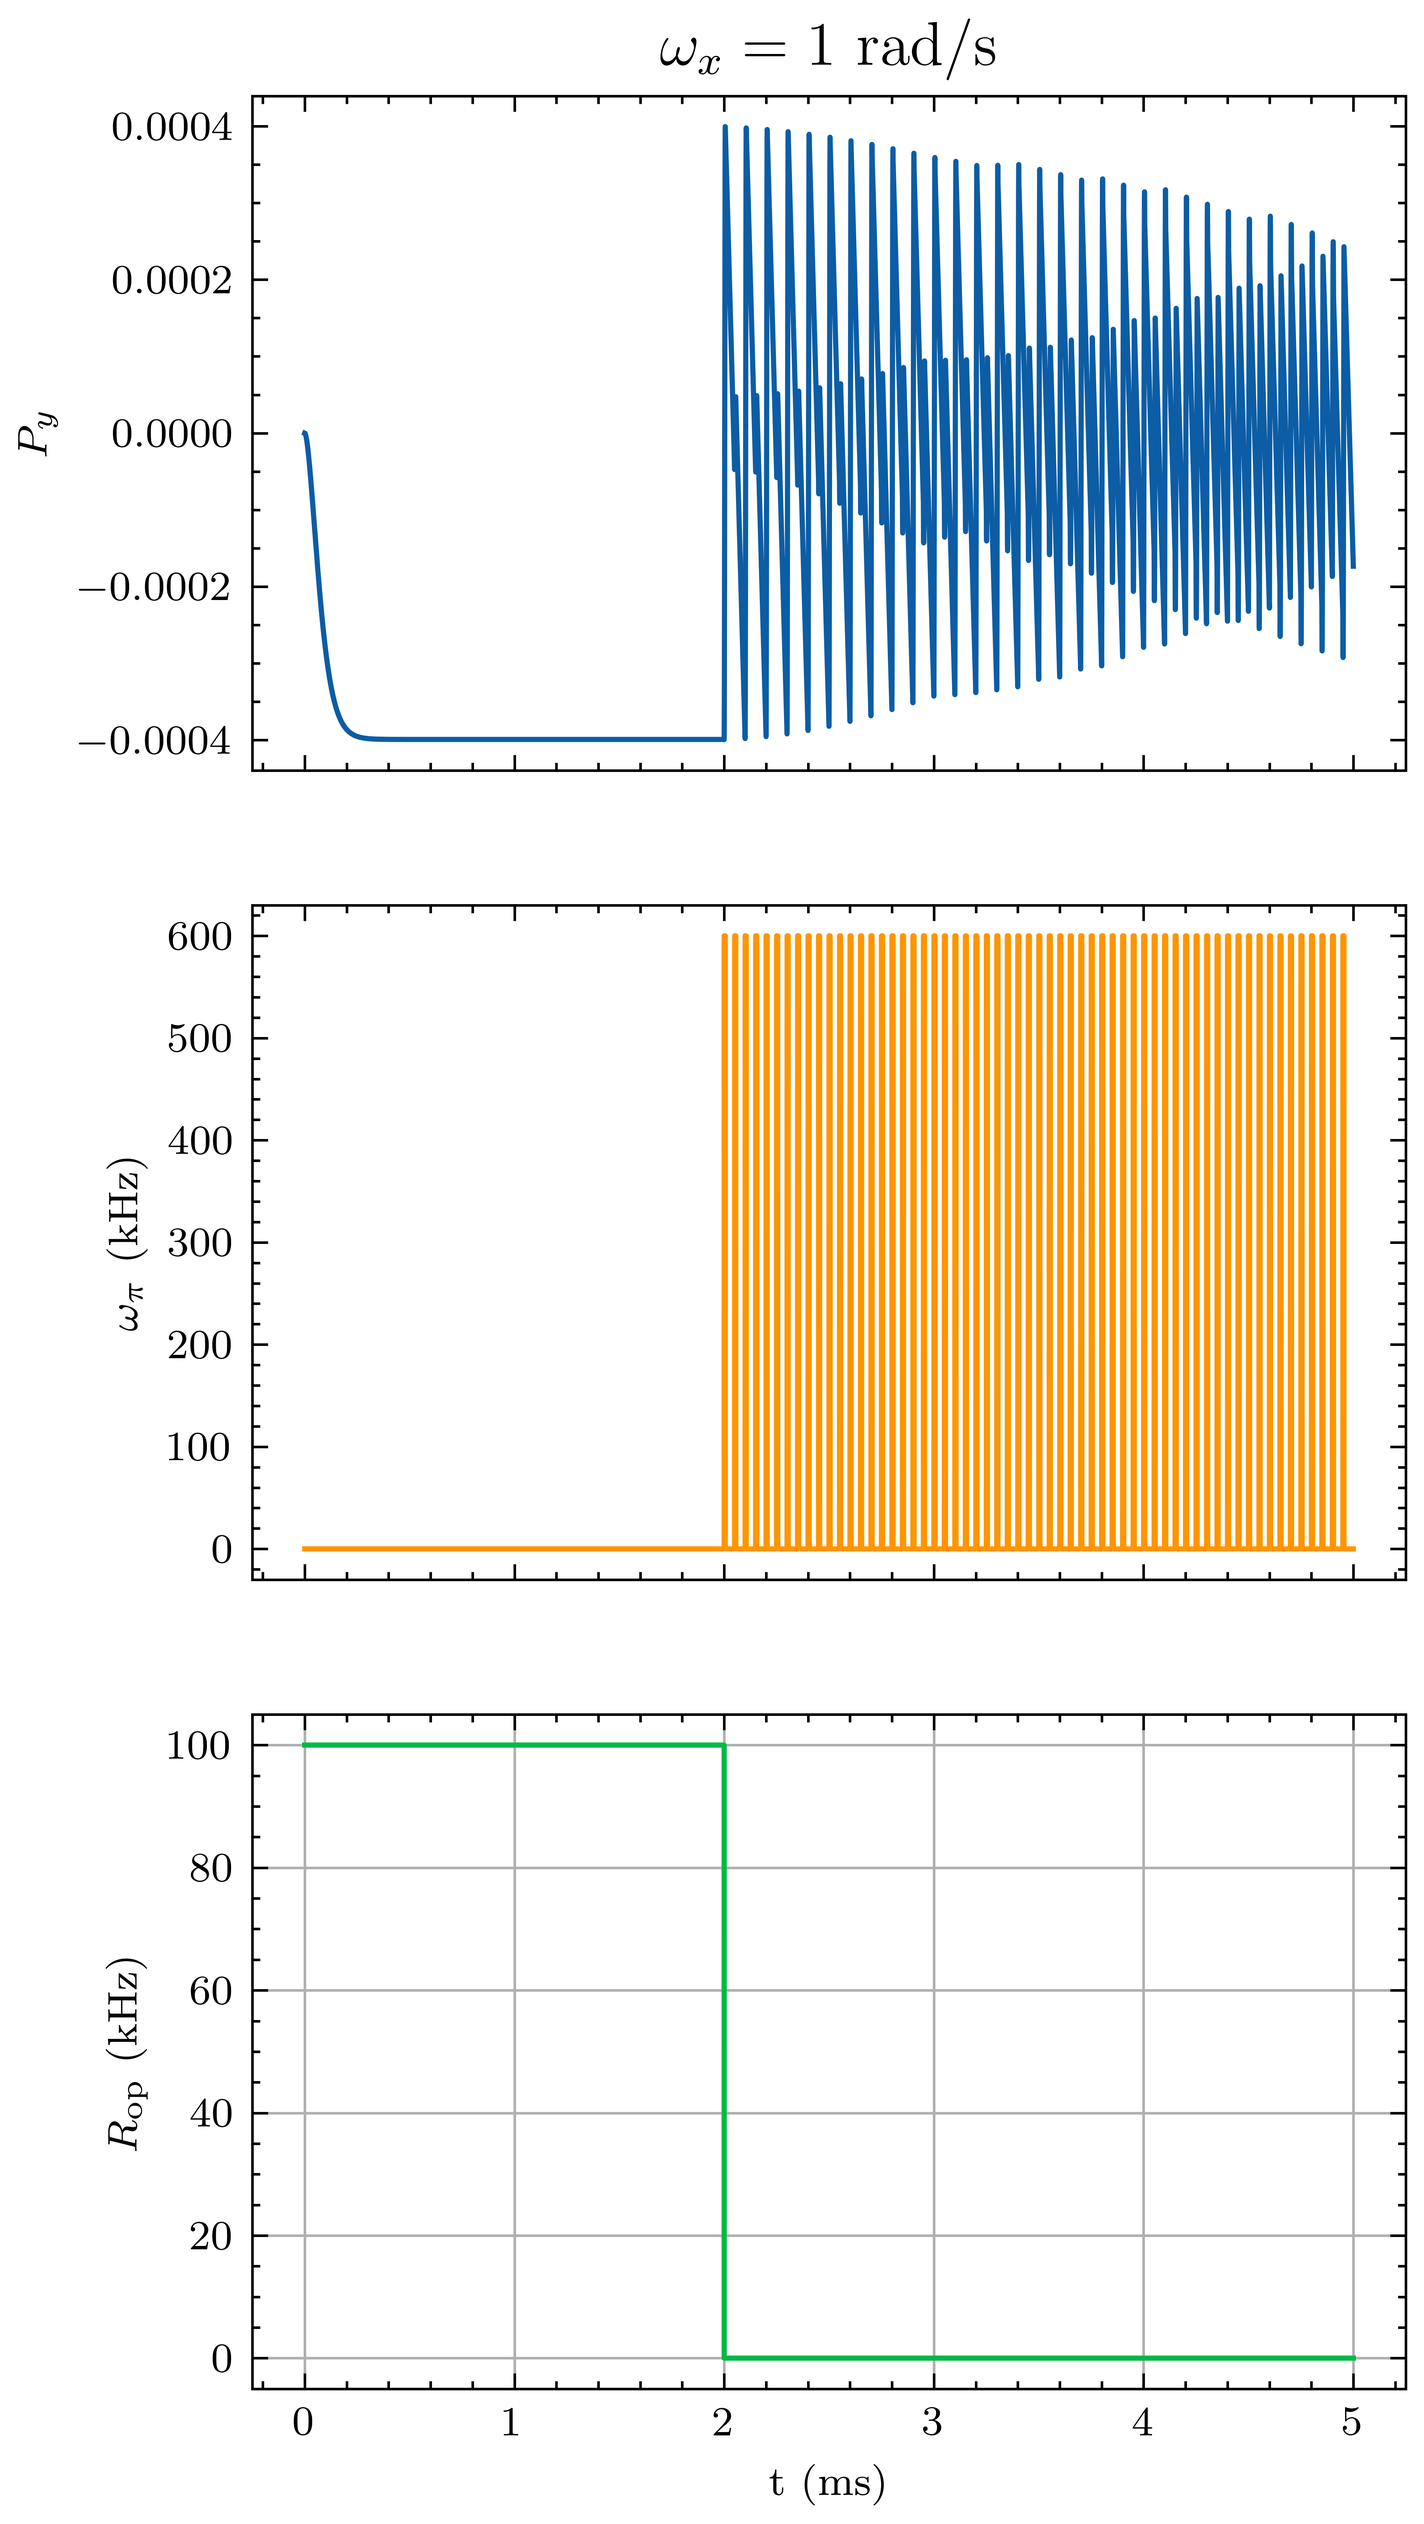
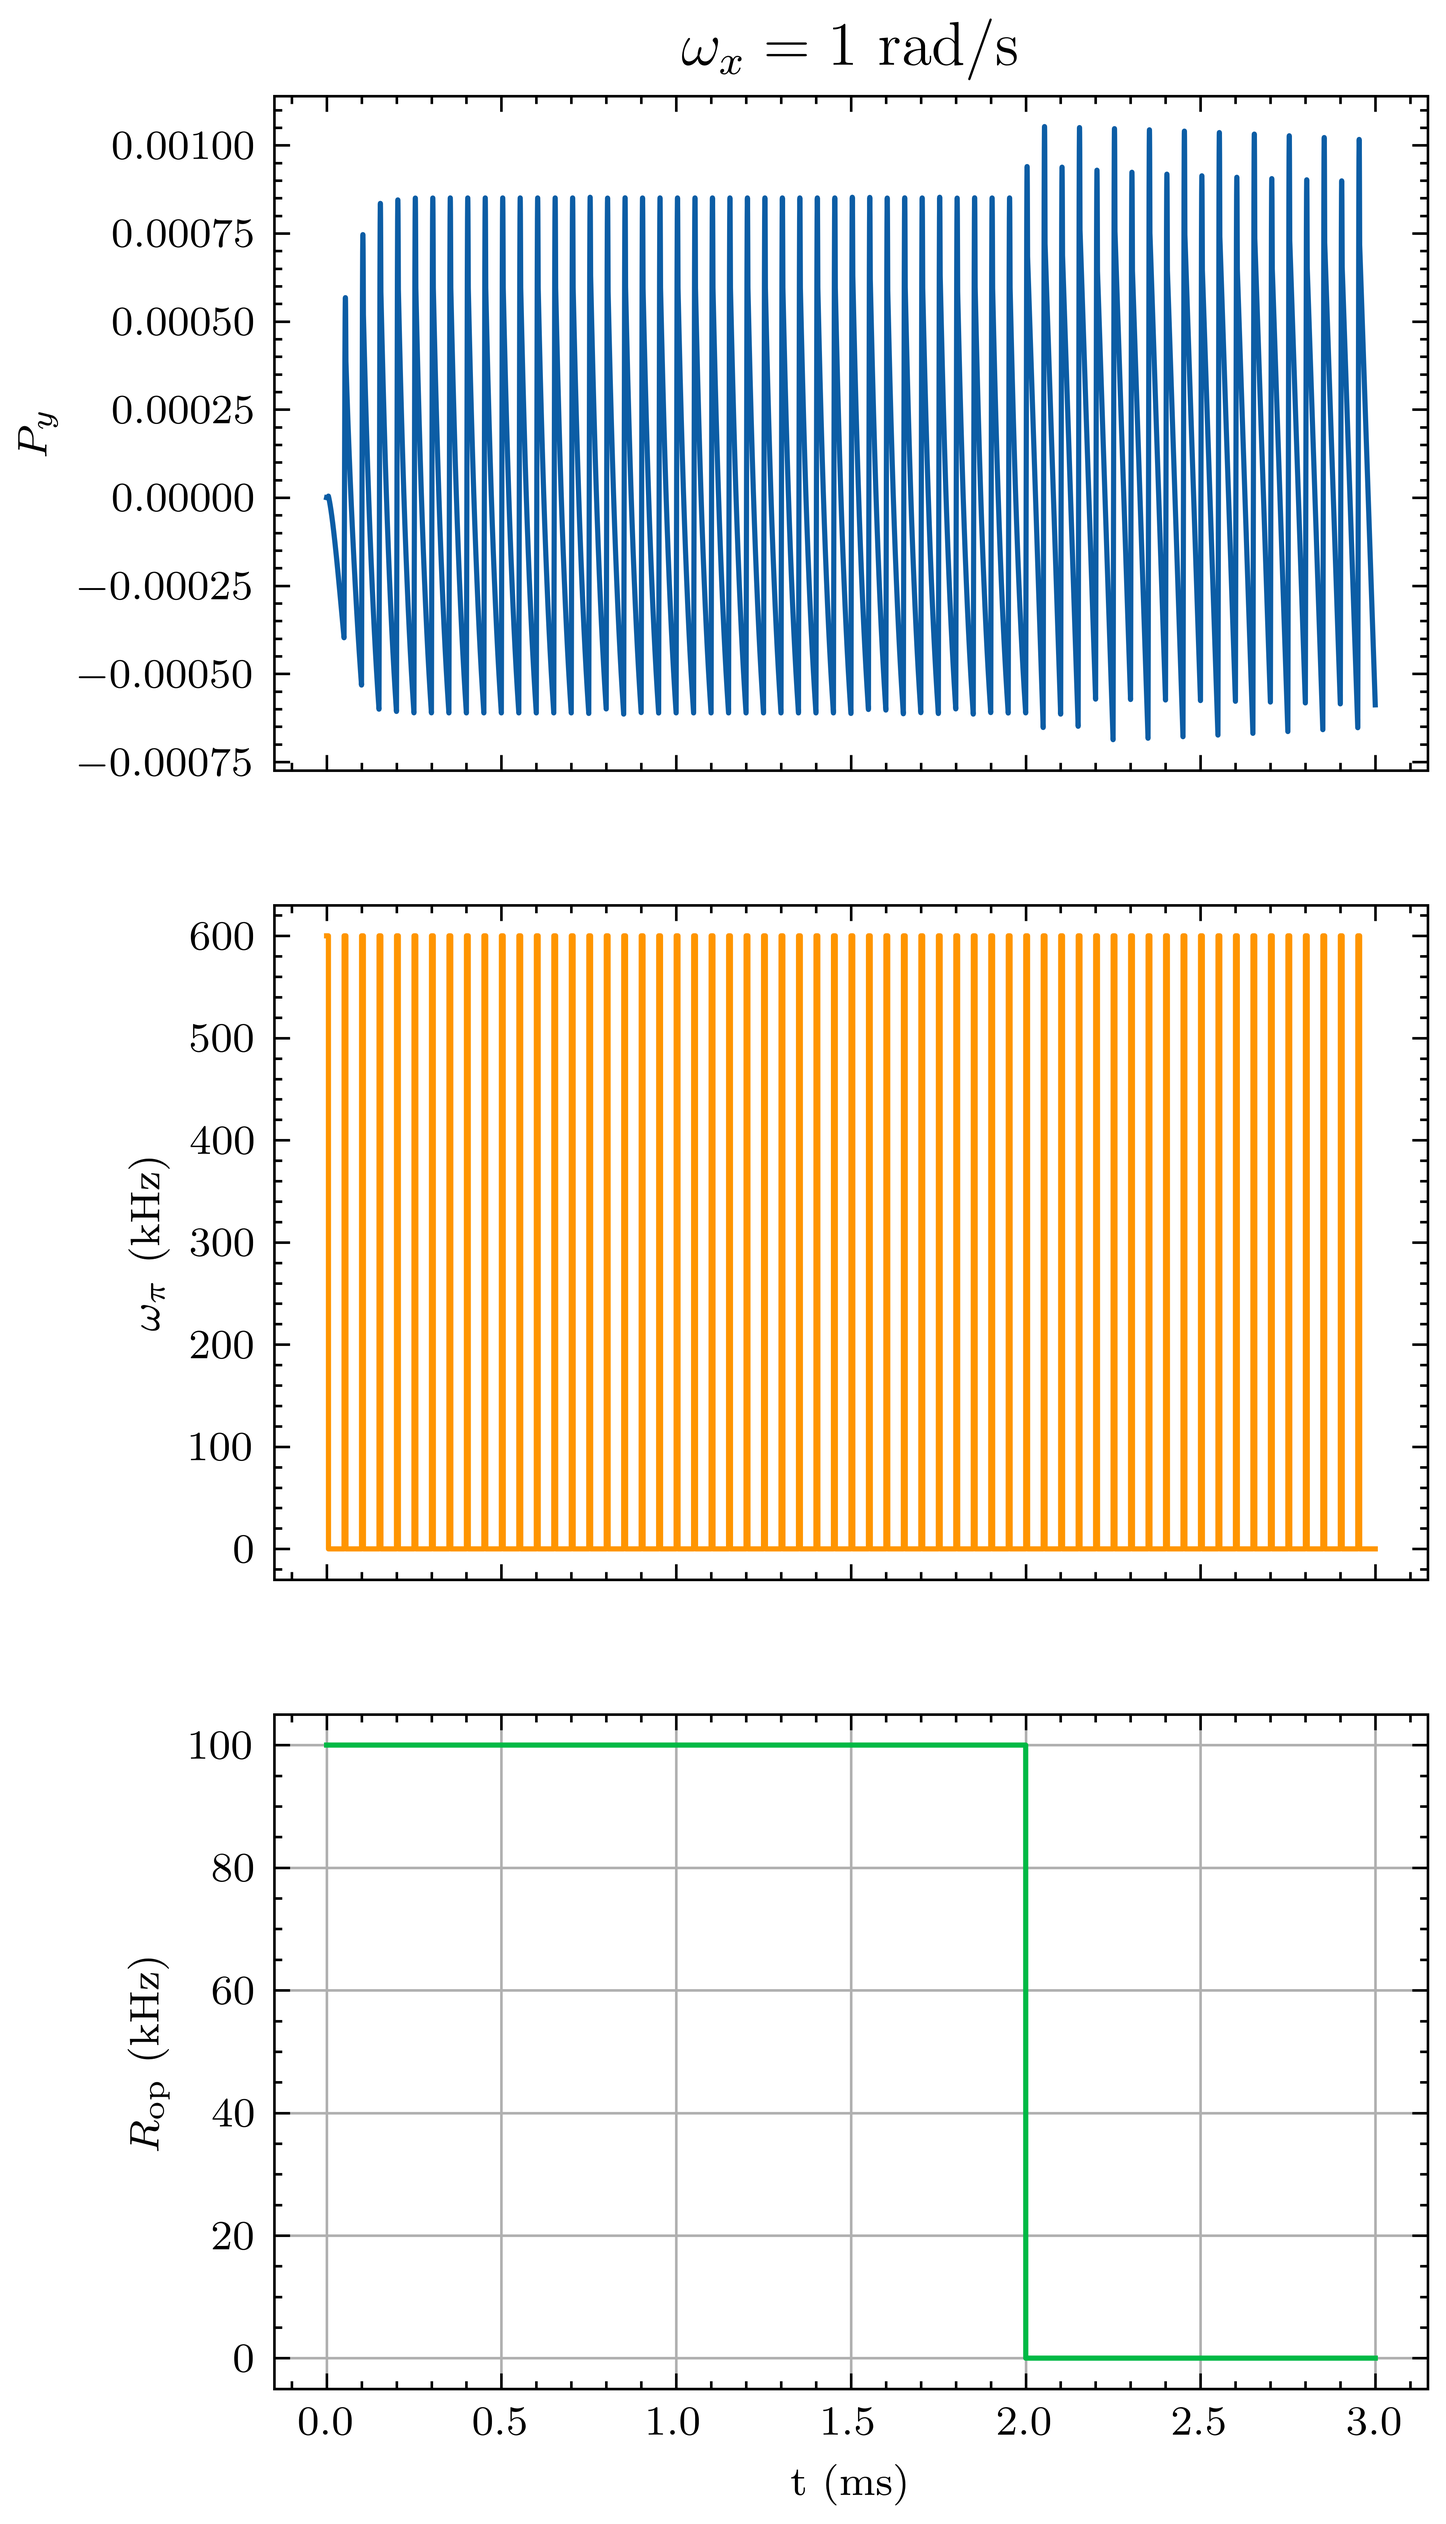
1

diff --git a/Signal_under_pi_pulse.py b/Signal_under_pi_pulse.py
@@ -1,6 +1,6 @@
 import sys
-# sys.path.append(r"/Users/liyang/Documents/GitHub/Optically_polarized_atoms/my_functions")
-sys.path.append(r"D:\Optically-pumped-atoms\my_functions")
+sys.path.append(r"/Users/liyang/Documents/GitHub/Optically_polarized_atoms/my_functions")
+# sys.path.append(r"D:\Optically-pumped-atoms\my_functions")
 import matplotlib.pyplot as plt
 from spin_operators_of_2or1_alkali_metal_atoms import spin_operators_of_2or1_alkali_metal_atoms
 from alkali_atom_uncoupled_to_coupled import alkali_atom_uncoupled_to_coupled
@@ -95,7 +95,7 @@ def master_equation(I,Rse,omega_0,theta_B,phi_B,omega_pi,theta_pi,phi_pi,Rop,Rsd
 
 global dt
 dt=0.0001
-T=5
+T=3
 t=np.arange(0,T,dt)
 
 
@@ -116,14 +116,14 @@ theta_pi=np.pi/180*0.
 phi_pi=np.pi/2
 
 
-for k in np.arange(0, round(T / dt), 1): 
-    if Rop[k]==2*amplitude_op:
-        omega_pi[k]=0
+# for k in np.arange(0, round(T / dt), 1): 
+#     if Rop[k]==2*amplitude_op:
+#         omega_pi[k]=0
 
 Rsd = 100e-3   #20Hz#
 Rse = 0.001    #5 Hz@50度#
-omega_0x=0.1e-1
-omega_0y=0.0e-1
+omega_0x=0.3e-1
+omega_0y=0.3e-1
 omega_0z=0.1e-1
 
 
